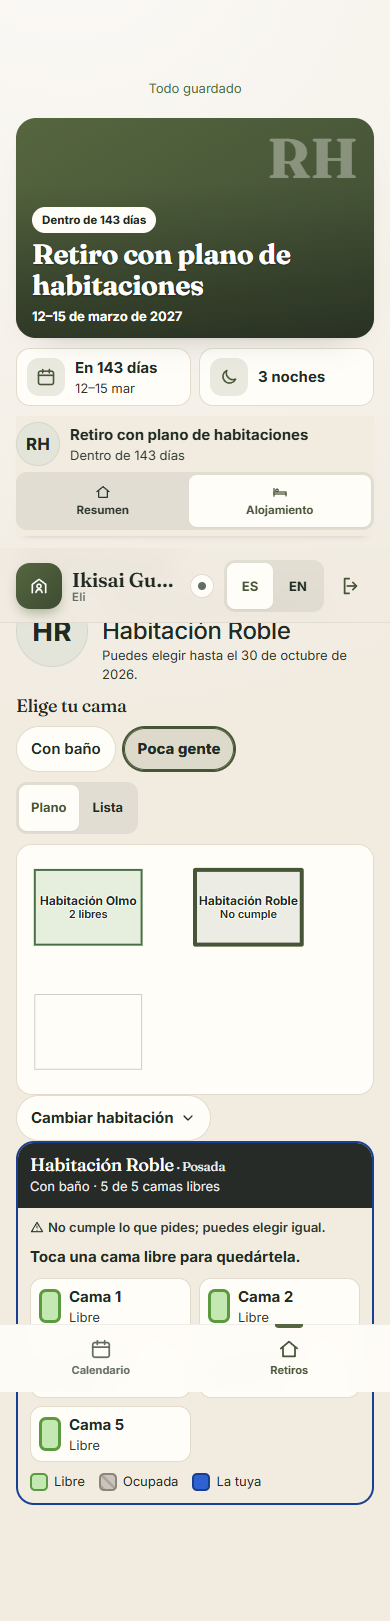
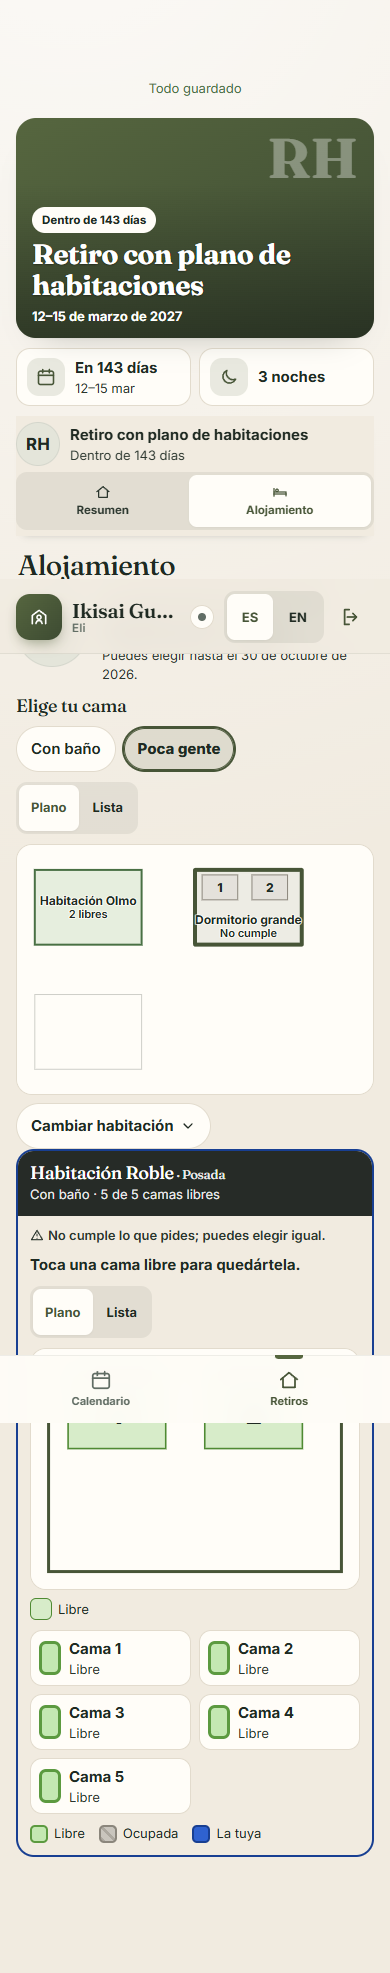
guests: ids de Recursos de Booking y camas sobre el plano en Alojamiento
Casa habitaciones y camas con el mapa por resource_space_id y
resource_bed_id (Booking #680), con el nombre solo de respaldo; en
Alojamiento, la elegida ampliada (focus del kit 0.54) con sus camas encima,
cada una con su estado en texto y que se elige como su botón.

Claude-Session: https://claude.ai/code/session_01AiPYS8Xx8hqWQwpG5fTv4H

diff --git a/apps/guests/src/ui/lodging.ts b/apps/guests/src/ui/lodging.ts
@@ -20,6 +20,7 @@ import type { Lodging } from '../app/portal.ts';
 import { failure, fbIgnore, loading, staleNote } from './common.ts';
 import { todayMadrid } from './home.ts';
 import { findSpace, loadPlans, portalMap } from './plan.ts';
+import type { PortalPlans } from '../app/portal.ts';
 
 const DEBOUNCE = 800;
 
@@ -64,6 +65,11 @@ export function mountLodging(main: HTMLElement, ctxs: GuestContext | GuestContex
   const filters = new Set<Filter>();
   /** Las habitaciones abiertas en el mapa de zonas (MUELA-056 y 024), si están dibujadas: espacio de Recursos ↔ habitación de Booking. */
   let roomsMap: { map: SpaceMap; toRoom: Map<string, string>; toSpace: Map<string, string> } | null = null;
+  /** Las camas de la habitación que se ve, sobre su dibujo recortado (`focus` del kit 0.54, «la elegida ampliada»). */
+  let bedsMap: SpaceMap | null = null;
+  let plansData: PortalPlans | null = null;
+  /** Lo que la capa de camas necesita saber al pintar: la habitación que se ve y si se puede elegir. */
+  let bedsView: { room: Room; canPick: boolean; toBed: Map<string, Bed> } | null = null;
   const unbinds: Array<() => void> = [];
   const needsNet = (button: HTMLElement) => { unbinds.push(bindOnline(button, { ...(options.client ? { client: options.client } : {}), reason: t('lodging.needsNetwork') })); return button; };
 
@@ -77,7 +83,7 @@ export function mountLodging(main: HTMLElement, ctxs: GuestContext | GuestContex
       if (!family) active = people[0]!;
       else if (active) active = people.find((p) => p.ctx === active!.ctx) ?? null;
       paint();
-      if (!roomsMap && choosing() && choiceOpen(data())) void loadRoomsMap();
+      if (!roomsMap && data().rooms.length) void loadRoomsMap();
     } catch (error) {
       if (alive) replace(main, failure(error, () => void load()));
     }
@@ -250,11 +256,61 @@ export function mountLodging(main: HTMLElement, ctxs: GuestContext | GuestContex
       canPick && !fits(room) ? el('p', { class: 'small groom-nofit' }, icon('warn', 14), ' ', t('lodging.noFit')) : null,
       hereButton,
       canPick ? el('p', { class: 'groom-hint' }, family && !active ? t('lodging.hintFamily') : t('lodging.hint')) : null,
+      bedsPlan(room, canPick),
       el('div', { class: 'gbeds', role: 'group', 'aria-label': t('lodging.bedsOf', { room: room.name }) }, ...beds),
       el('ul', { class: 'glegend', 'aria-label': t('lodging.legend') },
         el('li', null, el('span', { class: 'gsw st-free' }), t('lodging.bedFree')),
         el('li', null, el('span', { class: 'gsw st-full' }), t('lodging.bedTaken')),
         el('li', null, el('span', { class: 'gsw st-mine' }), family ? t('lodging.legendOurs') : t('lodging.bedMine'))));
+  }
+
+  /**
+   * Las camas sobre el dibujo de su habitación (MUELA-056, la variante elegida por VG): cada una con su estado en texto
+   * («Libre», «Ocupada», «Elegida»; apagada si no se puede elegir) y, al tocarla, lo mismo que su botón de abajo, que sigue
+   * (la lista equivalente). Camas casadas por `resource_bed_id` (Booking #680) o, sin él, por su nombre en la habitación.
+   * Si la habitación no tiene forma en el dibujo o no hay camas dibujadas, no sale.
+   */
+  function bedsPlan(room: Room, canPick: boolean): HTMLElement | null {
+    const roomSpace = roomsMap?.toSpace.get(room.space_id);
+    if (!plansData || !roomSpace) return null;
+    const self = plansData.spaces.find((x) => x.id === roomSpace);
+    const inside = plansData.spaces.filter((x) => x.parentId === roomSpace && x.planId && x.planShape);
+    if (!self?.planId || !self.planShape || !inside.length) return null;
+    const toBed = new Map<string, Bed>();
+    for (const bed of room.beds) {
+      const space = bed.resource_bed_id ? inside.find((x) => x.id === bed.resource_bed_id)
+        : inside.filter((x) => x.name.trim().toLocaleLowerCase('es') === bed.label.trim().toLocaleLowerCase('es')).length === 1
+          ? inside.find((x) => x.name.trim().toLocaleLowerCase('es') === bed.label.trim().toLocaleLowerCase('es')) : undefined;
+      if (space) toBed.set(space.id, bed);
+    }
+    if (!toBed.size) return null;
+    bedsView = { room, canPick, toBed };
+    if (!bedsMap) {
+      bedsMap = portalMap(plansData, {
+        mode: 'map',
+        focus: roomSpace,
+        label: t('lodging.bedsOf', { room: room.name }),
+        feedbackId: 'guests.alojamiento.camas',
+        filter: (x) => Boolean(bedsView?.toBed.has(x.id)),
+        layer: (x) => {
+          const bed = bedsView?.toBed.get(x.id);
+          if (!bed) return null;
+          const owner = ownerOf(bed.bed_id);
+          if (owner) return { state: 'picked', label: owner === active || !family ? t('lodging.bedMine') : t('lodging.bedOf', { name: owner.name }) };
+          if (!bed.free) return { state: 'occupied' };
+          return { state: 'free', disabled: !(bedsView!.canPick && !ctx.readOnly()) };
+        },
+        onPick: (x) => {
+          const v = bedsView;
+          const bed = v?.toBed.get(x.id);
+          if (v && bed && v.canPick) void pickBed(v.room, bed);
+        },
+      });
+    } else {
+      bedsMap.setFocus(roomSpace);
+      bedsMap.repaint();
+    }
+    return el('div', { class: 'gbeds-map', id: 'lodgingBedsMap' }, bedsMap.element);
   }
 
   /** El plano con la que se ve resaltada y los estados al día (filtros, plazas). */
@@ -345,10 +401,12 @@ export function mountLodging(main: HTMLElement, ctxs: GuestContext | GuestContex
     const toRoom = new Map<string, string>();
     const toSpace = new Map<string, string>();
     for (const room of data().rooms) {
-      const space = findSpace(loaded.value.spaces, null, { space: room.name });
+      // Por el id de Recursos (Booking #680); por el nombre (único) solo si Booking no tiene pareja.
+      const space = findSpace(loaded.value.spaces, room.resource_space_id ?? null, { space: room.name });
       if (space && space.kind !== 'cama' && !toRoom.has(space.id)) { toRoom.set(space.id, room.space_id); toSpace.set(room.space_id, space.id); }
     }
     if (!toRoom.size) return;
+    plansData = loaded.value;
     const map = portalMap(loaded.value, {
       mode: 'map',
       label: t('lodging.mapLabel'),
@@ -379,5 +437,5 @@ export function mountLodging(main: HTMLElement, ctxs: GuestContext | GuestContex
   }
 
   void load();
-  return () => { alive = false; roomsMap?.map.destroy(); if (timer) clearTimeout(timer); for (const off of unbinds.splice(0)) off(); };
+  return () => { alive = false; roomsMap?.map.destroy(); bedsMap?.destroy(); if (timer) clearTimeout(timer); for (const off of unbinds.splice(0)) off(); };
 }

diff --git a/tests/guests/modules.spec.ts b/tests/guests/modules.spec.ts
@@ -330,8 +330,12 @@ test('guests · Alojamiento con el mapa de zonas (MUELA-056 y 024): las habitaci
   const square = (x: number, y: number, s = 0.3): Array<[number, number]> => [[x, y], [x + s, y], [x + s, y + s], [x, y + s]];
   const { ids } = await api.floorPlan([
     { name: 'Habitación Olmo', kind: 'habitacion', points: square(0.05, 0.1) },
-    { name: 'Habitación Roble', kind: 'habitacion', points: square(0.5, 0.1) },
+    // Otro nombre en Recursos: solo casa por el id que da Booking (#680).
+    { name: 'Dormitorio grande', kind: 'habitacion', points: square(0.5, 0.1), refs: [`booking.space:${roble.spaceId}`] },
     { name: 'Comedor de abajo', kind: 'comedor', points: square(0.05, 0.6) },
+    // Camas dibujadas: una casada por id (otro nombre en Recursos) y otra por su nombre en la habitación.
+    { name: 'Cama de la ventana', kind: 'cama', parent: 'Dormitorio grande', points: square(0.52, 0.12, 0.1), refs: [`booking.bed:${roble.bedIds[0]}`] },
+    { name: 'Cama 2', kind: 'cama', parent: 'Dormitorio grande', points: square(0.66, 0.12, 0.1) },
   ]);
   await enter(page, await api.guestLink(reservation, eli, 'Eli'));
   await go(page, 'alojamiento');
@@ -343,11 +347,19 @@ test('guests · Alojamiento con el mapa de zonas (MUELA-056 y 024): las habitaci
   await expect(olmoZone).toHaveAttribute('aria-label', /2 libres/);
   // «Poca gente»: la de cinco deja de cumplir, y lo dice en texto.
   await page.locator('#lodgingRooms .gfilters button', { hasText: 'Poca gente' }).click();
-  await expect(map.locator('.map-svg [role="button"][aria-label^="Habitación Roble"]')).toHaveAttribute('aria-label', /No cumple/);
+  await expect(map.locator('.map-svg [role="button"][aria-label^="Dormitorio grande"]')).toHaveAttribute('aria-label', /No cumple/);
   // Tocar una en el plano la enseña abajo, resaltada.
-  await map.locator('.map-svg [role="button"][aria-label^="Habitación Roble"]').click();
+  await map.locator('.map-svg [role="button"][aria-label^="Dormitorio grande"]').click();
   await expect(page.locator('#lodgingRoom')).toHaveAttribute('data-space', roble.spaceId);
-  await expect(map.locator('.map-svg [role="button"][aria-pressed="true"]')).toHaveAttribute('aria-label', /Habitación Roble/);
-  expect(ids['Habitación Roble']).toBeTruthy();
+  await expect(map.locator('.map-svg [role="button"][aria-pressed="true"]')).toHaveAttribute('aria-label', /Dormitorio grande/);
+  expect(ids['Dormitorio grande']).toBeTruthy();
+  // La elegida ampliada: sus camas sobre su dibujo, con el estado en texto; tocar una la elige como su botón.
+  const beds = page.locator('#lodgingBedsMap .map-svg [role="button"]');
+  await expect(beds).toHaveCount(2);
+  await expect(page.locator(`#lodgingBedsMap .map-svg [role="button"][aria-label*="Libre"]`)).toHaveCount(2);
   await capture(page, 'alojamiento-mapa');
+  await page.locator('#lodgingBedsMap .map-svg [role="button"]').first().click();
+  await page.getByRole('button', { name: 'Elegir esta cama' }).click();
+  await expect(page.locator('#lodgingMine')).toContainText('Cama 1');
+  await expect.poll(async () => (await api.booking.t.db.query<{ bed_id: string }>(`select bed_id from booking.room_assignments where guest_id = $1 and deleted_at is null`, [eli])).rows.map((r) => r.bed_id)).toEqual([roble.bedIds[0]]);
 });

diff --git a/tests/guests/server.ts b/tests/guests/server.ts
@@ -37,7 +37,7 @@ export interface GuestsTestServer {
    */
   menu(event: string, services: Array<{ date: string; type: string; time: string; dishes: Array<{ name: string; description?: string; allergens?: string[]; allergensChecked?: boolean; diet?: string[] }> }>): Promise<void>;
   /** Mapa de zonas de Recursos (MUELA-024): un edificio con un dibujo (sin archivo: la capa sobre papel) y sus espacios con forma. */
-  floorPlan(spaces: Array<{ name: string; kind?: string; parent?: string; points: Array<[number, number]> }>): Promise<{ planId: string; ids: Record<string, string> }>;
+  floorPlan(spaces: Array<{ name: string; kind?: string; parent?: string; points: Array<[number, number]>; refs?: string[] }>): Promise<{ planId: string; ids: Record<string, string> }>;
   /** Servicios del menú de casa de Food (FD2, `food.portal_house_menu`). */
   houseMenu(services: Array<{ date: string; type: string; time: string; dishes: Array<{ name: string; allergens?: string[]; allergensChecked?: boolean }> }>): Promise<void>;
   /** El lugar en Central: dirección del lugar (sin domicilio fiscal en los portales) y, si se pide, un plano verificado. */
@@ -198,8 +198,9 @@ export async function startGuestsServer(): Promise<GuestsTestServer> {
       const planId = (await db.query<{ id: string }>(`insert into resources.floor_plans (building_id, floor, width, height) values ($1, 'Planta baja', 1000, 700) returning id`, [building])).rows[0]!.id;
       const ids: Record<string, string> = {};
       for (const [i, s] of spaces.entries()) {
-        ids[s.name] = (await db.query<{ id: string }>(`insert into resources.spaces (parent_id, kind, name, position, plan_id, plan_shape) values ($1, $2, $3, $4, $5, $6) returning id`,
-          [s.parent ? ids[s.parent] : building, s.kind ?? 'sala', s.name, i, planId, JSON.stringify({ points: s.points })])).rows[0]!.id;
+        // `refs` (`booking.space:<id>`, `booking.bed:<id>`): la pareja de Booking, que da `resource_space_id` en sus lecturas (#680).
+        ids[s.name] = (await db.query<{ id: string }>(`insert into resources.spaces (parent_id, kind, name, position, plan_id, plan_shape, source_refs) values ($1, $2, $3, $4, $5, $6, $7) returning id`,
+          [s.parent ? ids[s.parent] : building, s.kind ?? 'sala', s.name, i, planId, JSON.stringify({ points: s.points }), s.refs ?? []])).rows[0]!.id;
       }
       return { planId, ids };
     },

diff --git a/apps/guests/src/ui/outsider.ts b/apps/guests/src/ui/outsider.ts
@@ -109,7 +109,7 @@ export function mountOutsider(main: HTMLElement, header: HTMLElement | null, act
           el('p', { class: 'glodging-room', id: 'outsiderStayRoom' }, icon('bed', 20), ' ', el('strong', null, bed || t('outsider.noBed'))),
           el('p', { class: 'muted', id: 'outsiderStayDates' }, t(stay.from <= today ? 'outsider.stayNow' : 'outsider.stayNext', { from: formatDate(stay.from, { day: 'numeric', month: 'long' }), to: formatDate(stay.to, { day: 'numeric', month: 'long' }) })),
           stay.clash ? el('p', { class: 'banner warn', id: 'outsiderClash', role: 'status' }, icon('warn', 16), ' ', t('outsider.clash')) : null,
-          bed ? verEnPlano({ place: bed, match: { space: stay.space_name, bed: stay.bed_label }, label: t('outsider.yourBed', { bed }), id: 'outsiderPlan', reads: actions.reads ?? null, mark: (n) => fbMark(n, 'guests.outsider.estancia.plano', 'Tu cama en el plano') }) : null)
+          bed ? verEnPlano({ place: bed, spaceId: stay.resource_bed_id ?? stay.resource_space_id ?? null, match: { space: stay.space_name, bed: stay.bed_label }, label: t('outsider.yourBed', { bed }), id: 'outsiderPlan', reads: actions.reads ?? null, mark: (n) => fbMark(n, 'guests.outsider.estancia.plano', 'Tu cama en el plano') }) : null)
         : el('p', { class: 'muted', id: 'outsiderNoStay' }, t('outsider.noStay')),
       !stay && data?.default_bed ? el('p', { class: 'muted small', id: 'outsiderDefaultBed' }, t('outsider.defaultBed', { bed: stayText({ space_name: data.default_bed.space_name, bed_label: data.default_bed.bed_label, zone: null }) })) : null,
       others.length ? el('details', { class: 'gothers', 'data-feedback-id': 'guests.outsider.estancia.otras', 'data-feedback-label': 'Otras estancias' },

diff --git a/apps/guests/src/app/portal-types.ts b/apps/guests/src/app/portal-types.ts
@@ -70,11 +70,12 @@ export interface Question {
  */
 export interface Lodging {
   choice?: 'off' | 'choose' | 'request'; choose_until?: string | null; open?: boolean; preferences?: boolean;
-  mine: { space_name: string; zone: string | null; bed_label: string | null; status: 'confirmed' | 'requested'; source?: string } | null;
+  /** `resource_space_id` y `resource_bed_id` (Booking #680): su pareja en Recursos, para el mapa; null si no la hay. */
+  mine: { space_name: string; zone: string | null; bed_label: string | null; status: 'confirmed' | 'requested'; source?: string; resource_space_id?: string | null; resource_bed_id?: string | null } | null;
   preference: { text: string | null; ground_floor: boolean } | null;
-  rooms: Array<{ space_id: string; name: string; zone: string | null; kind?: string; capacity?: number | null; en_suite: boolean; small_en_suite?: boolean;
+  rooms: Array<{ space_id: string; resource_space_id?: string | null; name: string; zone: string | null; kind?: string; capacity?: number | null; en_suite: boolean; small_en_suite?: boolean;
     option_key: string | null; open?: boolean; supplement?: boolean; beds_total: number; beds_free: number;
     /** Supletorias activadas por el organizador (BG13): van en `beds` con `kind: 'supletoria'` y se cuentan aparte. */
     extra_total?: number; extra_free?: number;
-    beds: Array<{ bed_id: string; label: string; kind: string; free: boolean; mine?: boolean }> }>;
+    beds: Array<{ bed_id: string; resource_bed_id?: string | null; label: string; kind: string; free: boolean; mine?: boolean }> }>;
 }

diff --git a/apps/guests/src/ui/home.ts b/apps/guests/src/ui/home.ts
@@ -260,7 +260,7 @@ export function mountHome(main: HTMLElement, ctx: GuestContext, actions: HomeAct
     const next = actions.nextRetreat;
     return el('section', { class: 'gpanel', id: 'panel', 'data-feedback-id': 'guests.inicio.estancia', 'data-feedback-label': 'Tu estancia' },
       el('h3', null, t('home2.panel')),
-      room ? verEnPlano({ place: room, match: { space: lodging?.mine?.space_name, bed: lodging?.mine?.bed_label }, label: t('home2.yourRoomPlan', { room }), id: 'roomPlan', reads: ctx.reads, mark: (n) => fbMark(n, 'guests.inicio.estancia.plano', 'Tu habitación en el plano') }) : null,
+      room ? verEnPlano({ place: room, spaceId: lodging?.mine?.resource_bed_id ?? lodging?.mine?.resource_space_id ?? null, match: { space: lodging?.mine?.space_name, bed: lodging?.mine?.bed_label }, label: t('home2.yourRoomPlan', { room }), id: 'roomPlan', reads: ctx.reads, mark: (n) => fbMark(n, 'guests.inicio.estancia.plano', 'Tu habitación en el plano') }) : null,
       el('div', { class: 'gtiles', id: 'retreatTiles' },
         mods?.menu ? tile({ id: 'openMenu', href: `${retreatBase}/menu`, icon: 'chef', title: t('nav.menu'), sub: meal ? `${t(`menu.${meal.type}`)}${meal.time ? ` · ${hhmm(meal.time)}` : ''}` : t('home2.menuSub') }, (n) => fbMark(n, 'guests.inicio.estancia.menu', 'Menú')) : null,
         mods?.lodging && moment !== 'before' ? tile({ id: 'myRoom', href: `${retreatBase}/alojamiento`, icon: 'bed', title: t('home2.yourRoom'), sub: room ?? t('home2.roomNone') }, (n) => fbMark(n, 'guests.inicio.estancia.habitacion', 'Tu habitación')) : null,

diff --git a/apps/guests/src/ui/house.ts b/apps/guests/src/ui/house.ts
@@ -112,7 +112,7 @@ export function mountHouse(main: HTMLElement, options: HouseOptions): () => void
         : el('p', { class: 'card gcard muted', id: 'infoSoon' }, t('info.soon')),
       el('section', { class: 'gsec ghouse-plan', id: 'o-plano', 'aria-labelledby': 'o-planoH' },
         el('h3', { class: 'gsec-head', id: 'o-planoH' }, t('house.plan')),
-        verEnPlano({ place: bedText || null, whole: true, match: bedStay ? { space: bedStay.space_name, bed: bedStay.bed_label } : data?.default_bed ? { space: data.default_bed.space_name, bed: data.default_bed.bed_label } : null, label: t('house.planWhere'), id: 'oiPlan', reads: options.reads, mark: (n) => fbMark(n, 'guests.outsider.casa.plano', 'El plano de la casa') })),
+        verEnPlano({ place: bedText || null, whole: true, spaceId: bedStay ? bedStay.resource_bed_id ?? bedStay.resource_space_id ?? null : data?.default_bed ? data.default_bed.resource_bed_id ?? data.default_bed.resource_space_id ?? null : null, match: bedStay ? { space: bedStay.space_name, bed: bedStay.bed_label } : data?.default_bed ? { space: data.default_bed.space_name, bed: data.default_bed.bed_label } : null, label: t('house.planWhere'), id: 'oiPlan', reads: options.reads, mark: (n) => fbMark(n, 'guests.outsider.casa.plano', 'El plano de la casa') })),
       placeCard({ reads: options.reads }),
       contactCard(Boolean(now)));
   }

diff --git a/apps/guests/src/app/outsider.ts b/apps/guests/src/app/outsider.ts
@@ -14,8 +14,10 @@ export interface StayPerson { person_key: string; name: string }
 export interface Stay {
   id: string; revision: number; from: string; to: string; source: 'guest' | 'staff';
   persons: StayPerson[]; space_name: string | null; zone: string | null; bed_label: string | null; clash: boolean;
+  /** Su pareja en Recursos (Booking #680), para el mapa; null si no la hay. */
+  resource_space_id?: string | null; resource_bed_id?: string | null;
 }
-export interface MyStays { items: Stay[]; default_bed: { space_name: string; bed_label: string | null } | null }
+export interface MyStays { items: Stay[]; default_bed: { space_name: string; bed_label: string | null; resource_space_id?: string | null; resource_bed_id?: string | null } | null }
 export interface StayNote { id: string; revision: number; at: string; text: string; mine: boolean; by: 'outsider' | 'staff' }
 export interface Range { from: string; to: string }
 /** Plato del menú de casa (Food §7.6): nombre público y los alérgenos declarados, siempre, con `allergens_checked` (#597). */

diff --git a/apps/guests/src/ui/plan.ts b/apps/guests/src/ui/plan.ts
@@ -62,6 +62,7 @@ export function toRows(spaces: PortalSpace[]): SpaceRow[] {
 /** El espacio del sitio: por id o, si no, por nombre (habitación y cama dentro), solo si la coincidencia es única. Pura. */
 export function findSpace(spaces: PortalSpace[], spaceId?: string | null, match?: { space?: string | null; bed?: string | null } | null): PortalSpace | null {
   if (spaceId) return spaces.find((s) => s.id === spaceId) ?? null;
+  // Sin id (Booking no tiene pareja en Recursos): por el nombre, solo si coincide con uno.
   const name = norm(match?.space);
   if (!name) return null;
   const rooms = spaces.filter((s) => norm(s.name) === name && s.kind !== 'cama');

diff --git a/docs/guests/API.md b/docs/guests/API.md
@@ -551,9 +551,9 @@ el sitio en texto y el plano del centro de Central (imagen o PDF).
 - **Lectura:** `GET plans` (§6.1) con copia en la caché para verla sin red, recordada un minuto en la pantalla. El dibujo
   se guarda en el dispositivo por su `sha256` (Cache Storage `ikisai-guests-plans`, se borra al salir) y no se vuelve a
   bajar si no cambia; si no se puede leer (CORS), la imagen firmada se pinta igual.
-- **«Ver en el plano»** (`ui/plan.ts`) busca el sitio en el mapa: por `resource_space_id` (Programa y horario de Inicio)
-  o, mientras Booking no dé los ids de Recursos en `portal_lodging` y `portal_my_stays`, por nombre (habitación y cama
-  dentro), solo si coincide con uno. Con el sitio: `createSpaceMap` del kit con el sitio resaltado y «Aquí» en texto, el
+- **«Ver en el plano»** (`ui/plan.ts`) busca el sitio en el mapa por su id de Recursos: `resource_space_id` en el
+  Programa, y `resource_space_id` y `resource_bed_id` en `portal_lodging` y `portal_my_stays` (Booking #680). Solo cuando
+  Booking no tiene pareja (`null`), por nombre (habitación y cama dentro), y solo si coincide con uno. Con el sitio: `createSpaceMap` del kit con el sitio resaltado y «Aquí» en texto, el
   conmutador Plano/Lista y, debajo y plegado, el plano del centro de Central como respaldo. Sin dibujo o sin forma, la
   pieza enseña la lista con la ruta. Sin el sitio en el mapa, como antes (el plano de Central).
 - **Pantallas:** Resumen (`#roomPlan` y lo de ahora), Programa, Información práctica y «Ikisai» (el mapa entero,
@@ -561,8 +561,11 @@ el sitio en texto y el plano del centro de Central (imagen o PDF).
 - **Alojamiento** (MUELA-056, `#lodgingMap`): con la elección abierta, el plano de las habitaciones abiertas encima de
   «Cambiar habitación» (casadas por nombre único mientras `portal_lodging` no dé el id de Recursos); las demás estancias,
   apagadas y sin tocar. Cada una con su estado en texto dentro («2 libres», «No cumple» con los filtros, «Llena»); tocarla
-  la enseña abajo, como la fila de la lista, y queda resaltada. Las camas siguen como botones de color con texto: el kit
-  aún no recorta el dibujo a la habitación elegida (petición al kit).
+  la enseña abajo, como la fila de la lista, y queda resaltada. **La elegida ampliada** (`focus` del kit 0.54,
+  `#lodgingBedsMap`): en la habitación de abajo, su dibujo recortado con las camas encima, cada una con su estado en texto
+  («Libre», «Ocupada», «Elegida» o la de quién de la familia; apagada si no se puede elegir); tocar una hace lo mismo que
+  su botón (confirmación incluida). Los botones de color con texto siguen debajo, como lista equivalente. Sin forma de la
+  habitación o sin camas dibujadas, solo los botones.
 - **Ayuda** (MUELA-054, `#helpPlan`): bajo las baldosas de «Un sitio», «Tócalo en el plano» (solo los sitios de huéspedes:
   habitaciones, salas, baños, comedor, exteriores, zonas de paso y otros). Tocar un sitio lo elige («Sitio: …»,
   `#helpPicked`) y el aviso lleva `scope.space_id` (Recursos) y su nombre en el texto, como siempre. Las baldosas siguen.

diff --git a/docs/guests/ESTADO.md b/docs/guests/ESTADO.md
@@ -95,10 +95,11 @@
 
 - 2026-10-20 · **Mapa en Alojamiento y Ayuda** (API.md §9.16): las habitaciones abiertas en el plano con su estado en texto, y «Tócalo en el plano» en Ayuda, con `space_id` en el aviso. Pruebas en `modules.spec.ts` y `portal.spec.ts`.
 
+- 2026-10-20 · **Ids de Recursos y camas en el plano** (API.md §9.16): se casa por `resource_space_id` y `resource_bed_id` de Booking (#680), con el nombre solo de respaldo; en Alojamiento, la habitación ampliada con sus camas encima (kit 0.54). Prueba en `modules.spec.ts`.
+
 ## Pendiente
 
 - «Mis tareas» (TK1), cuando Tasks lo publique.
-- Las camas sobre el plano en Alojamiento, cuando el kit recorte el dibujo a la habitación (hoy, botones con texto).
 
 - Alta de infraestructura de Core (C3): publicación, Pages y `guests.ikisai.com` con `ven.ikisai.com`.
 
